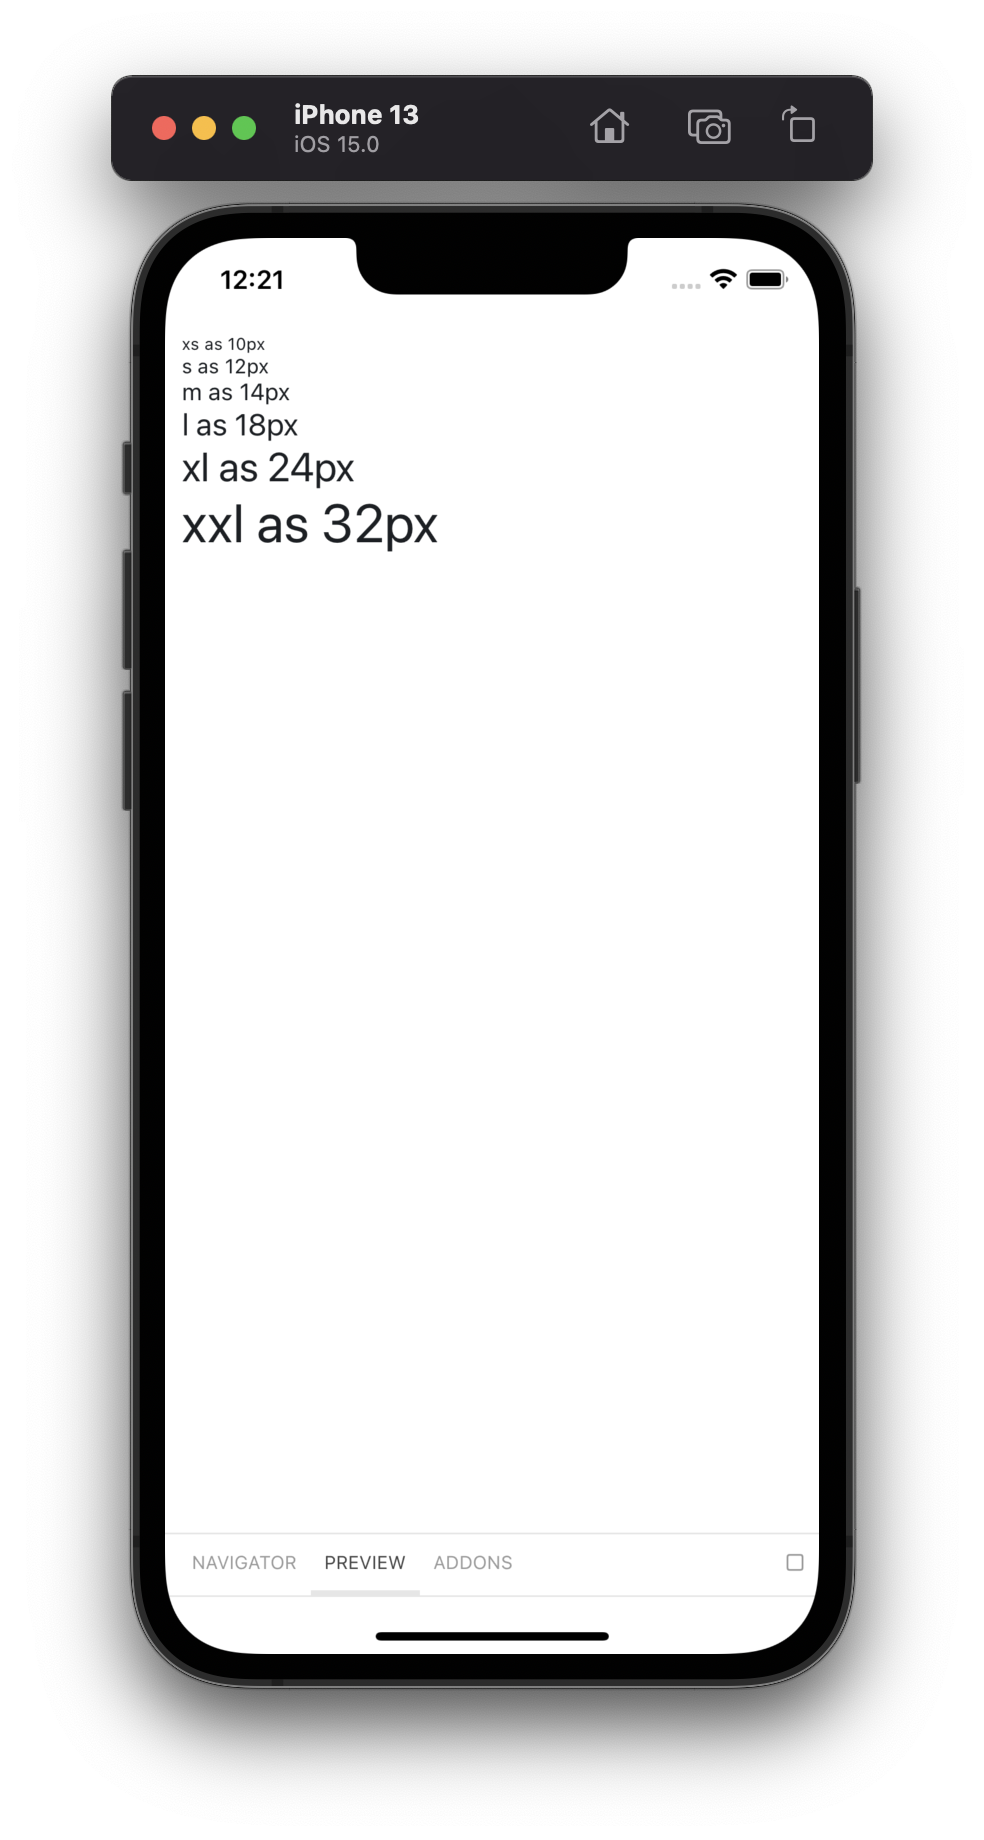
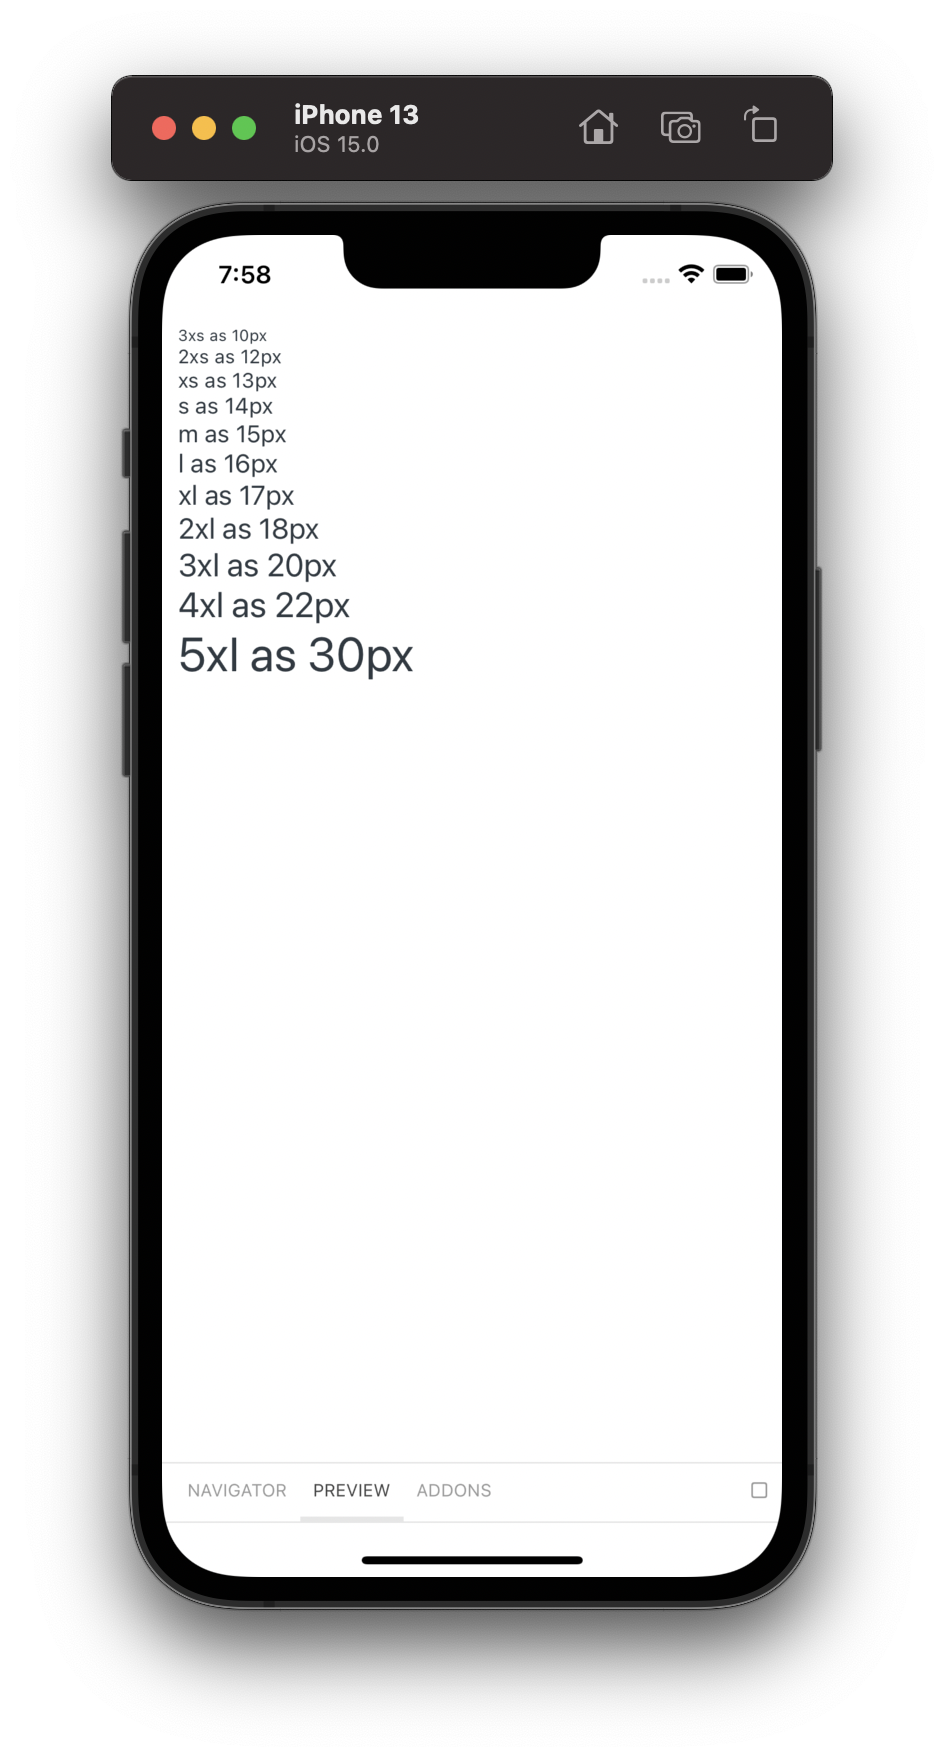
updated stories and docs

Changed region(s): [[0.0922, 0.0312, 0.8909, 0.9375], [0.3686, 0.1562, 0.6144, 0.1875]]

diff --git a/storybook/stories/Typography.stories.js b/storybook/stories/Typography.stories.js
@@ -92,12 +92,17 @@ export const TextStyles = () => {
 export const FontSizes = () => {
   return (
     <Container>
-      <Typography fontSize="xs">xs as 10px</Typography>
-      <Typography fontSize="s">s as 12px</Typography>
-      <Typography fontSize="m">m as 14px</Typography>
-      <Typography fontSize="l">l as 18px</Typography>
-      <Typography fontSize="xl">xl as 24px</Typography>
-      <Typography fontSize="xxl">xxl as 32px</Typography>
+      <Typography fontSize="3xs">3xs as 10px</Typography>
+      <Typography fontSize="2xs">2xs as 12px</Typography>
+      <Typography fontSize="xs">xs as 13px</Typography>
+      <Typography fontSize="s">s as 14px</Typography>
+      <Typography fontSize="m">m as 15px</Typography>
+      <Typography fontSize="l">l as 16px</Typography>
+      <Typography fontSize="xl">xl as 17px</Typography>
+      <Typography fontSize="2xl">2xl as 18px</Typography>
+      <Typography fontSize="3xl">3xl as 20px</Typography>
+      <Typography fontSize="4xl">4xl as 22px</Typography>
+      <Typography fontSize="5xl">5xl as 30px</Typography>
     </Container>
   );
 };
@@ -106,45 +111,48 @@ export const FontColors = () => {
   return (
     <Container>
       <Container backgroundColor="background.base">
-        <Typography color="font.white" fontSize="xxl">
+        <Typography color="font.white" fontSize="3xl">
           White
         </Typography>
       </Container>
-      <Typography color="font.black" fontSize="xxl">
+      <Typography color="font.black" fontSize="3xl">
         Black
       </Typography>
-      <Typography color="font.base" fontSize="xxl">
+      <Typography color="font.base" fontSize="3xl">
         Base
       </Typography>
-      <Typography fontSize="xxl">Primary</Typography>
-      <Typography color="font.secondary" fontSize="xxl">
+      <Typography fontSize="3xl">Primary</Typography>
+      <Typography color="font.secondary" fontSize="3xl">
         Secondary
       </Typography>
-      <Typography color="font.danger" fontSize="xxl">
+      <Typography color="font.danger" fontSize="3xl">
         Danger
       </Typography>
-      <Typography color="font.grey100" fontSize="xxl">
+      <Typography color="font.grey100" fontSize="3xl">
         Grey
       </Typography>
-      <Typography color="font.grey100" fontSize="xxl">
+      <Typography color="font.grey100" fontSize="3xl">
         Grey 100
       </Typography>
-      <Typography color="font.grey200" fontSize="xxl">
+      <Typography color="font.grey200" fontSize="3xl">
         Grey 200
       </Typography>
-      <Typography color="font.grey300" fontSize="xxl">
+      <Typography color="font.grey300" fontSize="3xl">
         Grey 300
       </Typography>
-      <Typography color="font.grey400" fontSize="xxl">
+      <Typography color="font.grey400" fontSize="3xl">
         Grey 400
       </Typography>
-      <Typography color="font.grey500" fontSize="xxl">
+      <Typography color="font.grey500" fontSize="3xl">
         Grey 500
       </Typography>
-      <Typography color="font.grey600" fontSize="xxl">
+      <Typography color="font.grey600" fontSize="3xl">
         Grey 600
       </Typography>
-      <Typography color="font.grey800" fontSize="xxl">
+      <Typography color="font.grey700" fontSize="3xl">
+        Grey 700
+      </Typography>
+      <Typography color="font.grey800" fontSize="3xl">
         Grey 800
       </Typography>
     </Container>
@@ -154,11 +162,17 @@ export const FontColors = () => {
 export const FontFamilies = () => {
   return (
     <Container>
-      <Typography fontFamily="inter400" fontSize="xxl">
-        Inter Regular 400
+      <Typography fontFamily="SFProText400" fontSize="3xl">
+        SFProText Regular 400
       </Typography>
-      <Typography fontFamily="inter700" fontSize="xxl">
-        Inter Bold 700
+      <Typography fontFamily="SFProText500" fontSize="3xl">
+        SFProText Medium 500
+      </Typography>
+      <Typography fontFamily="SFProText600" fontSize="3xl">
+        SFProText SemiBold 600
+      </Typography>
+      <Typography fontFamily="SFProText700" fontSize="3xl">
+        SFProText Bold 700
       </Typography>
     </Container>
   );
@@ -167,13 +181,13 @@ export const FontFamilies = () => {
 export const TextDecoration = () => {
   return (
     <Container>
-      <Typography fontSize="xxl" textDecoration="underline">
+      <Typography fontSize="3xl" textDecoration="underline">
         Underline
       </Typography>
-      <Typography fontSize="xxl" textDecoration="line-through">
+      <Typography fontSize="3xl" textDecoration="line-through">
         Line through
       </Typography>
-      <Typography fontSize="xxl" textDecoration="underline line-through">
+      <Typography fontSize="3xl" textDecoration="underline line-through">
         Underline and line through
       </Typography>
     </Container>
@@ -183,13 +197,13 @@ export const TextDecoration = () => {
 export const TextTransformation = () => {
   return (
     <Container>
-      <Typography fontSize="xxl" textTransform="uppercase">
+      <Typography fontSize="3xl" textTransform="uppercase">
         uppercase text
       </Typography>
-      <Typography fontSize="xxl" textTransform="lowercase">
+      <Typography fontSize="3xl" textTransform="lowercase">
         lowercase text
       </Typography>
-      <Typography fontSize="xxl" textTransform="capitalize">
+      <Typography fontSize="3xl" textTransform="capitalize">
         capitalized text
       </Typography>
     </Container>

diff --git a/storybook/stories/_Home.stories.js b/storybook/stories/_Home.stories.js
@@ -9,7 +9,7 @@ export default TypographyStories;
 export const Home = () => {
   return (
     <Container flex={1} alignItems="center" justifyContent="center">
-      <Typography textAlign="center" fontSize="xxl">
+      <Typography textAlign="center" fontSize="2xl">
         Please open navigator from the bottom left tab and select a story to
         preview.
       </Typography>
